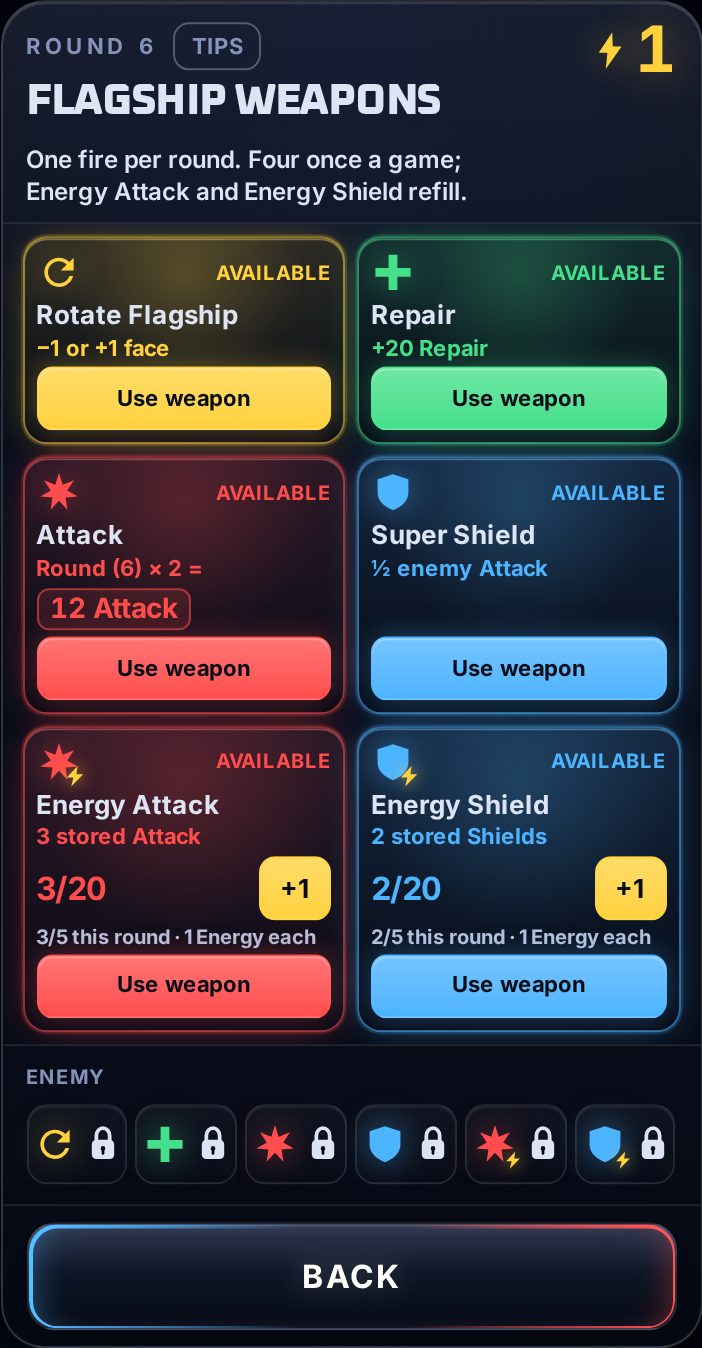
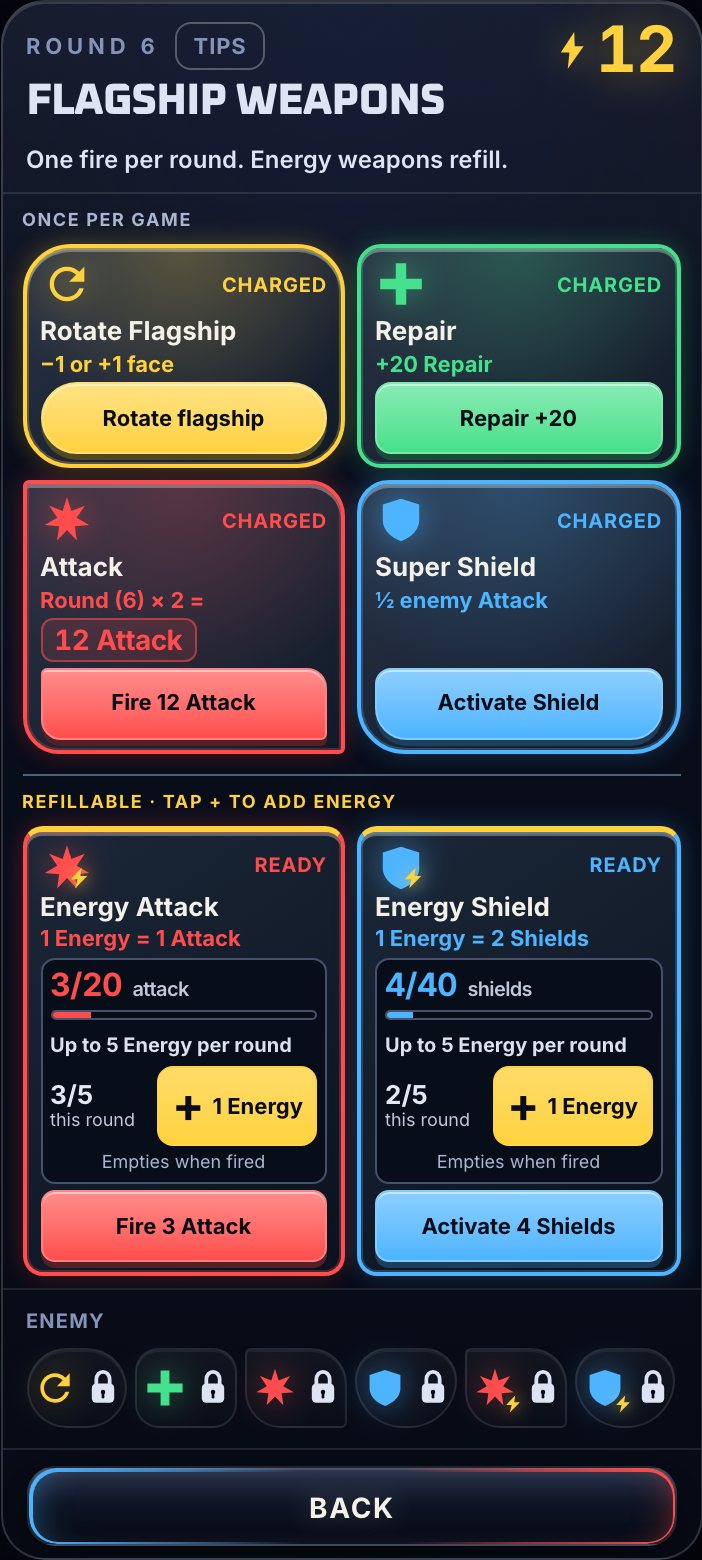
Clarify refillable flagship Energy controls

diff --git a/components/FlagshipWeapons.tsx b/components/FlagshipWeapons.tsx
@@ -1,6 +1,6 @@
 "use client";
 
-import { useEffect, useRef, useState } from "react";
+import { Fragment, useEffect, useRef, useState } from "react";
 import { createPortal } from "react-dom";
 import {
   TUNING, FLAG_FACES, WEAPON_GRID_IDS, WEAPON_IDS, WEAPON_NAMES, weaponAttack, weaponChargeCostOf,
@@ -147,6 +147,7 @@ export function WeaponReport({ yours, theirs, yourStock, enemyStock, enemyName }
 }
 
 function WeaponEffectLine({ id, round, stored = 0 }: { id: WeaponId; round: number; stored?: number }) {
+  if (isEnergyWeapon(id)) return <p className="weapon-effect">1 Energy = {weaponPower(1, id)} {id === "energyShield" ? "Shields" : "Attack"}</p>;
   if (id === "attack") {
     return (
       <p className="weapon-effect">
@@ -240,7 +241,7 @@ function WeaponWindow({ player, enemy, shop, busy, onAction, onClose }: {
           <h2 id="weapon-title" className="t-display">Flagship weapons</h2>
         </div>
         <EnergyBank energy={player.energy} />
-        <p className="weapon-lede">{shopLede ?? <>One fire per round. Four once a game;<br />Energy Attack and Energy Shield refill.</>}</p>
+        <p className="weapon-lede">{shopLede ?? "One fire per round. Energy weapons refill."}</p>
       </header>
       <div className="weapon-window-body">
         {tips && <div className="weapon-tips">
@@ -287,7 +288,10 @@ function WeaponWindow({ player, enemy, shop, busy, onAction, onClose }: {
             const canChargeThis = !busy && shop && player.phase === "shop" && status === "locked" && player.energy >= cost;
             const canUseThis = !busy && !shop && status === "available" && canFire && (!energy || stored > 0);
             const enabled = canChargeThis || canUseThis;
-            return <section className={`weapon-card weapon-${id} weapon-card-${appearance}${energy ? " weapon-card-energy" : ""}`} key={id}>
+            return <Fragment key={id}>
+              {id === "rotate" && <p className="weapon-group-label">Once per game</p>}
+              {id === "energyAttack" && <p className="weapon-group-label weapon-group-energy"><span>Refillable · tap + to add Energy</span></p>}
+              <section className={`weapon-card weapon-${id} weapon-card-${appearance}${energy ? " weapon-card-energy" : ""}`}>
               <div className="weapon-card-top"><WeaponIcon id={id} /><span className="weapon-state">{energy ? status === "locked" ? "Not unlocked" : stored > 0 ? "Ready" : "Empty" : status === "available" ? "Charged" : status === "locked" ? "Uncharged" : STATE[status]}</span></div>
               <h3>{WEAPON_NAMES[id]}</h3>
               <WeaponEffectLine id={id} round={player.round} stored={stored} />
@@ -295,14 +299,16 @@ function WeaponWindow({ player, enemy, shop, busy, onAction, onClose }: {
                 <div className="weapon-energy-store">
                   <p className="weapon-energy-count t-num">{power}/{powerMax}<small> {id === "energyShield" ? "shields" : "attack"}</small></p>
                   <meter className="weapon-storage-gauge" min={0} max={powerMax} value={power} aria-label={`${WEAPON_NAMES[id]} stored ${id === "energyShield" ? "Shields" : "Attack"}`} />
-                  <p className="weapon-energy-cap"><span className="weapon-energy-limit">Max {weaponPower(TUNING.weaponEnergyFillPerRound, id)} {id === "energyShield" ? "Shields" : "Attack"} per round</span><span>{weaponPower(filled, id)} added · empties on use</span></p>
+                  <p className="weapon-energy-limit">Up to {TUNING.weaponEnergyFillPerRound} Energy per round</p>
+                  <p className="weapon-fill-progress" aria-label={`${filled} of ${TUNING.weaponEnergyFillPerRound} Energy added this round`}><b>{filled}/{TUNING.weaponEnergyFillPerRound}</b><span>this round</span></p>
                   <button type="button"
                     className="weapon-energy-plus"
                     disabled={busy || !canFillWeapon(player, id)}
                     onClick={() => onAction({ type: "weapon-fill", weapon: id as EnergyWeaponId })}
                     aria-label={`Add 1 Energy to ${WEAPON_NAMES[id]}`}>
-                    {id === "energyShield" ? `1 Energy = ${TUNING.weaponEnergyShieldPerEnergy} Shields` : "Add 1 Energy"}
+                    <span className="weapon-plus-mark" aria-hidden="true">+</span><span>1 Energy</span>
                   </button>
+                  <p className="weapon-fill-hint">{filled >= TUNING.weaponEnergyFillPerRound ? "Round limit reached" : stored >= TUNING.weaponEnergyStoreMax ? "Store full" : player.energy < 1 ? "No Energy in bank" : "Empties when fired"}</p>
                 </div>
               )}
               <button type="button" disabled={!enabled}
@@ -316,7 +322,7 @@ function WeaponWindow({ player, enemy, shop, busy, onAction, onClose }: {
                   : shop ? status === "available" ? energy ? "Unlocked" : "Charged" : `${energy ? "Unlock" : "Charge"} · ${cost} Energy`
                   : status === "locked" ? "Charge in shipyard" : used ? "Next volley" : energy && stored <= 0 ? "Add Energy first" : energy ? id === "energyAttack" ? `Fire ${stored} Attack` : `Activate ${power} Shields` : id === "attack" ? `Fire ${weaponAttack(player.round)} Attack` : id === "repair" ? `Repair +${TUNING.weaponRepair}` : id === "shield" ? "Activate Shield" : "Rotate flagship"}
               </button>
-            </section>;
+            </section></Fragment>;
           })}
         </div>
         )}

diff --git a/app/globals.css b/app/globals.css
@@ -246,7 +246,7 @@
   border: 2px solid #6c7890;
   background: linear-gradient(145deg, #293346, #121a28);
   box-shadow: inset 0 1px 0 rgb(255 255 255 / .22), inset 0 -3px 0 rgb(0 0 0 / .3), 0 3px 8px rgb(0 0 0 / .25);
-  padding: 7px 8px; gap: 4px;
+  padding: 5px 7px; gap: 3px;
 }
 .weapon-window .weapon-attack, .weapon-window .weapon-energyAttack { border-radius: 3px 18px 3px 18px; }
 .weapon-window .weapon-shield, .weapon-window .weapon-energyShield { border-radius: 16px 16px 24px 24px; }
@@ -254,7 +254,7 @@
 .weapon-window .weapon-rotate { border-radius: 24px; }
 .weapon-window .weapon-card h3 { color: #f4f1e8; }
 .weapon-window .weapon-card-top .weapon-symbol { width: 26px; height: 26px; }
-.weapon-window .weapon-card > button { min-height: 40px; }
+.weapon-window .weapon-card > button { min-height: 36px; }
 .weapon-window .weapon-card-available > button:enabled {
   color: #090d17;
   background: linear-gradient(180deg, color-mix(in srgb, var(--weapon-color) 65%, white), var(--weapon-color));
@@ -301,14 +301,29 @@
 .weapon-window .weapon-energy-cap > span { display: block; }
 .weapon-energy-limit { margin: 0; font-size: 10px; font-weight: 700; color: #dce2ed; }
 .weapon-energy-cap { grid-column: 1; }
+/* Refillable stores have their own bank controls below the once-per-game weapons. */
+.weapon-group-label { grid-column: 1 / -1; margin: 0; color: #aab6cf; font-size: 9px; font-weight: 800; letter-spacing: .09em; text-transform: uppercase; }
+.weapon-group-energy { display: flex; flex-direction: column; gap: 2px; margin-top: 4px; padding-top: 6px; border-top: 1px solid #536079; color: var(--color-energy); }
+.weapon-group-energy small { font-size: 10px; font-weight: 600; letter-spacing: 0; text-transform: none; color: #dce2ed; }
+.weapon-window .weapon-card-energy { border-radius: 10px; border-top: 3px solid var(--color-energy); background: linear-gradient(145deg, #1b2738, #0b121e); }
+.weapon-window .weapon-card-energy > button { border-radius: 7px; }
+.weapon-window .weapon-energy-store { grid-template-columns: 1fr auto; gap: 3px 4px; padding: 4px; border: 1px solid #45516a; border-radius: 7px; background: #080e19; }
+.weapon-window .weapon-energy-count, .weapon-window .weapon-storage-gauge, .weapon-window .weapon-energy-limit, .weapon-window .weapon-fill-hint { grid-column: 1 / -1; }
+.weapon-fill-progress { margin: 0; font-size: 9px; line-height: 1.15; color: #c0c8db; }
+.weapon-fill-progress b { display: block; font-size: 13px; color: #e3e8f2; }
+.weapon-fill-progress span { display: block; max-width: 48px; }
+.weapon-window .weapon-energy-plus { grid-column: 2; grid-row: 4; display: flex; align-items: center; justify-content: center; gap: 4px; min-height: 40px; padding: 0 6px; }
+.weapon-plus-mark { font-size: 24px; line-height: 1; }
+.weapon-fill-hint { margin: 0; color: #aab6cf; font-size: 9px; line-height: 1.2; text-align: center; }
 @media (max-height: 680px), (max-width: 370px) {
   .weapon-window .weapon-card { padding: 1px 7px; gap: 2px; }
   .weapon-window .weapon-card-top .weapon-symbol { width: 22px; height: 22px; }
   .weapon-window .weapon-card > button:enabled { min-height: 32px; }
-  .weapon-window .weapon-energy-plus { min-height: 30px; }
+  .weapon-window .weapon-energy-plus { min-height: 36px; }
   .weapon-window .weapon-energy-store { gap: 2px; }
 }
 .weapon-window footer { flex-shrink: 0; padding: 8px 12px; border-top: 1px solid rgb(255 255 255 / 0.1); }
+.weapon-window footer .btn { min-height: 40px; padding: 7px 12px; font-size: 14px; }
 .weapon-tips {
   position: absolute;
   inset: 8px;
@@ -403,8 +418,15 @@
 @media (max-height: 700px) {
   .weapon-window { max-height: calc(100dvh - 16px); }
   .weapon-window-inner { max-height: calc(100dvh - 16px); }
-  .weapon-window-head { padding: 6px 8px 4px; gap: 4px; }
+  .weapon-window-head { padding: 5px 8px 3px; gap: 3px; }
   .weapon-window-head h2 { font-size: 20px; margin-top: 0; }
+  .weapon-window-kicker { line-height: 1; }
+  .weapon-tips-link { min-height: 20px; }
+  .weapon-window .weapon-attack .weapon-effect { flex-direction: row; align-items: center; flex-wrap: wrap; gap: 3px; }
+  .weapon-window .weapon-effect-eq { font-size: 9px; }
+  .weapon-group-energy { margin-top: 0; padding-top: 3px; }
+  .weapon-window .weapon-energy-store { gap: 2px 4px; padding: 2px; }
+  .weapon-enemy-row-label { line-height: 1; }
   .weapon-lede { font-size: 11px; line-height: 1.2; }
   .weapon-window-body { padding: 4px 8px; }
   .weapon-card-grid { gap: 4px; }
@@ -418,7 +440,7 @@
   .weapon-effect { font-size: 10px; }
   .weapon-enemy-row { padding: 4px 8px 4px; }
   .weapon-enemy-row-label { margin: 0 0 4px; }
-  .weapon-enemy-box { height: 30px; }
+  .weapon-enemy-box { height: 28px; }
   .weapon-window footer { padding: 4px 8px; }
 }
 

diff --git a/PLAN.md b/PLAN.md
@@ -1277,4 +1277,6 @@ Layout for the two being built (owner was explicit):
 - The flagship weapons screen shows all six weapons at once with no scrolling.
 - Grid: top-left Rotate, top-right Repair, middle-left Attack, middle-right Super Shield, bottom-left Energy Attack, bottom-right Energy Shield.
 - Energy Attack and Energy Shield look alike and parallel — red for Attack, blue for Shields.
-- Inside each: stored out of 20, and a compact +1 that adds to the store and deducts from the bank right away.
+- Inside each: stored Attack out of 20 or Shields out of 40. Each has a gold **+ 1 Energy** button that adds to the store and deducts from the bank right away.
+- Up to 5 Energy can be added to each weapon per round. The counter shows Energy added this round; Energy Shield converts each Energy into 2 Shields.
+- The lower pair have a shared refillable heading, gold top rims, and inset storage controls, separate from the four once-per-game weapons.
